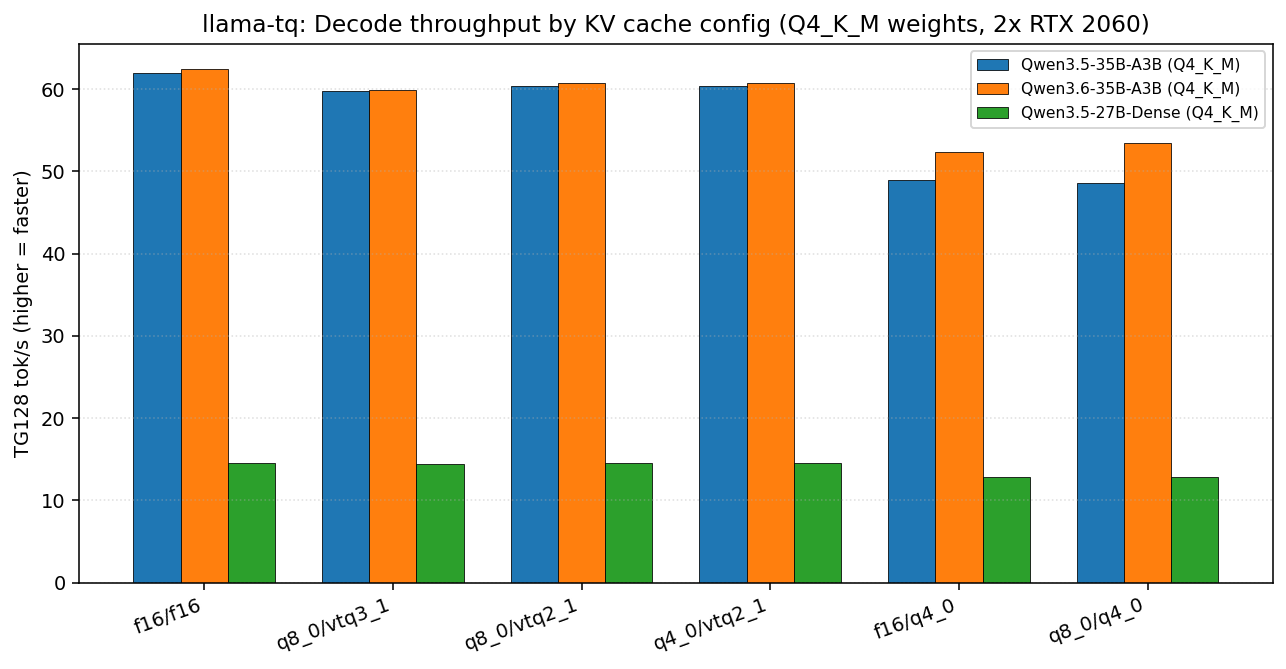
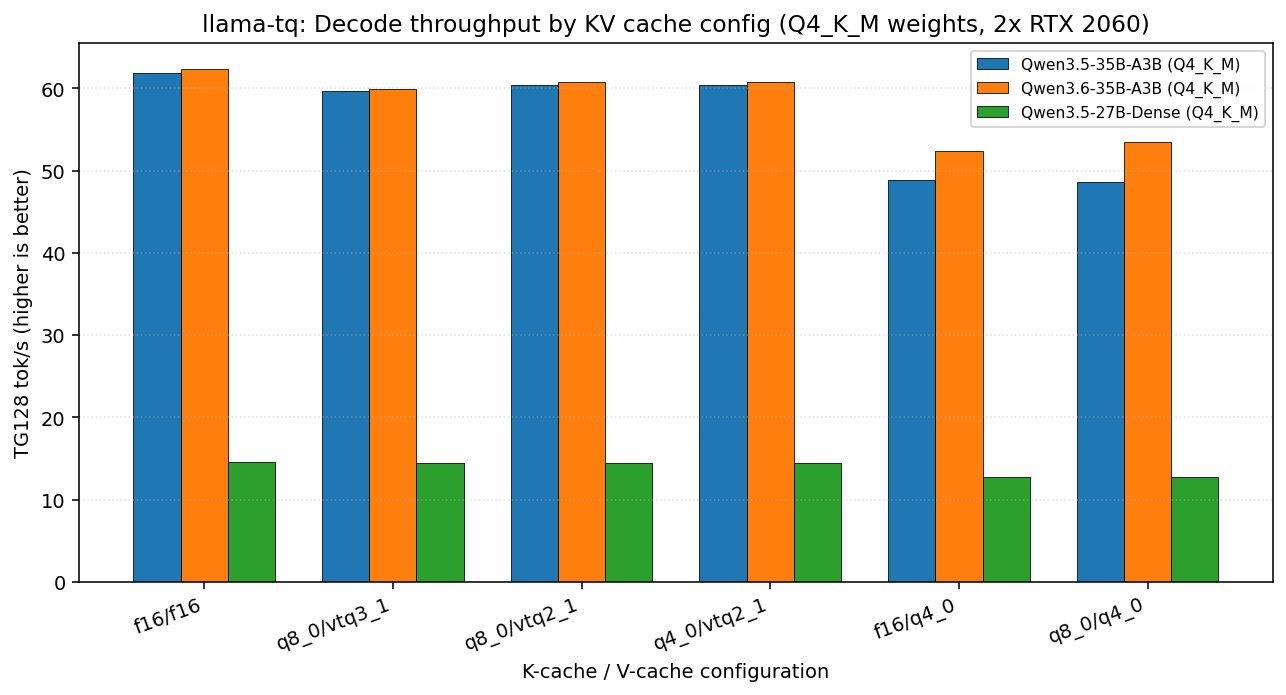
charts: split PPL chart into two panels, rework cross-project layout
- ppl_vs_bpw.png: split into compressed region (bpw ≤ 7) and f16 K region
  (bpw > 7) to stop point overlap; added green near-lossless band at <1.5%
- cross_project.png: reduced llama-tq to flagship configs only (q8_0+vtq2_1,
  q8_0+vtq3_1), used circle/square to distinguish them, star for TheTom,
  diamond for buun. Custom two-column legend, caveat moved below plot
- All axis labels now have direction indicators:
    "higher is better" for tok/s
    "lower is better" for PPL delta
    "lower means more compression" for bpw
- README: replaced em-dashes with commas/periods for plain ASCII punctuation

diff --git a/bench/plots/gen_charts.py b/bench/plots/gen_charts.py
@@ -45,55 +45,76 @@ def _savefig(name: str, fig):
 # ----------------------------------------------------------------------------
 
 def chart_ppl_vs_bpw():
-    fig, ax = plt.subplots(figsize=(10, 6))
+    # Two-panel: left = bpw ≤ 7 (compressed region where points cluster),
+    # right = bpw > 7 (f16-K territory, fewer points)
+    fig, (axL, axR) = plt.subplots(1, 2, figsize=(12, 6),
+                                   gridspec_kw={"width_ratios": [3, 1.2]},
+                                   sharey=True)
 
-    # Per-model markers
     markers = {
         "Qwen3.5-35B-A3B (IQ2_XS)":   ("o", "#1f77b4"),
         "Qwen3.6-35B-A3B (IQ2_XXS)":  ("s", "#ff7f0e"),
         "Qwen3.5-35B-A3B (Q4_K_M)":   ("^", "#2ca02c"),
         "Qwen3.6-35B-A3B (Q4_K_M)":   ("D", "#d62728"),
-        "Qwen3.5-27B-Dense (Q4_K_M)": ("v", "#9467bd"),
+        "Qwen3.5-27B Dense (Q4_K_M)": ("v", "#9467bd"),
     }
 
-    have_ppl = df.dropna(subset=["ppl_delta_pct"])
+    have_ppl = df.dropna(subset=["ppl_delta_pct"]).copy()
+    # Rename 'Qwen3.5-27B-Dense' → 'Qwen3.5-27B Dense' for consistency
+    have_ppl["model_label"] = have_ppl["model_label"].str.replace(
+        "Qwen3.5-27B-Dense", "Qwen3.5-27B Dense"
+    )
+
     for label, (marker, color) in markers.items():
         sub = have_ppl[have_ppl["model_label"] == label]
         if sub.empty:
             continue
-        ax.scatter(
-            sub["avg_bpw"], sub["ppl_delta_pct"],
-            marker=marker, color=color, s=60, alpha=0.85,
-            label=label, edgecolors="black", linewidth=0.4,
-        )
+        for ax in (axL, axR):
+            ax.scatter(
+                sub["avg_bpw"], sub["ppl_delta_pct"],
+                marker=marker, color=color, s=85, alpha=0.9,
+                label=label if ax is axL else None,
+                edgecolors="black", linewidth=0.5, zorder=3,
+            )
 
-    # Annotate our recommended configs
-    highlights = [
-        ("q8_0/vtq3_1", "q8_0+vtq3_1"),
-        ("q8_0/vtq2_1", "q8_0+vtq2_1"),
-    ]
-    for cfg, text in highlights:
-        sub = have_ppl[have_ppl["config"] == cfg]
-        if sub.empty:
-            continue
-        # pick the median row for annotation
-        row = sub.iloc[len(sub) // 2]
-        ax.annotate(
-            text,
-            xy=(row["avg_bpw"], row["ppl_delta_pct"]),
-            xytext=(10, 8), textcoords="offset points",
-            fontsize=8, color="#444",
-            arrowprops=dict(arrowstyle="-", color="#aaa", lw=0.5),
-        )
+    # Shade "near-lossless" band on left panel
+    axL.axhspan(-0.5, 1.5, color="#e6f4ea", alpha=0.6, zorder=1,
+                label="_nolegend_")
+    axL.text(6.9, 0.5, "near-lossless (<1.5%)", fontsize=7, color="#2ca02c",
+             ha="right", style="italic")
 
-    ax.axhline(0, color="#888", lw=0.6, ls="--")
-    ax.set_xlabel("Average KV-cache bpw (lower = more compressed)")
-    ax.set_ylabel("PPL delta vs f16 (%)")
-    ax.yaxis.set_major_formatter(mtick.PercentFormatter(decimals=1))
-    ax.set_title("llama-tq: PPL vs KV compression across 5 model/quant pairs")
-    ax.grid(True, ls=":", alpha=0.4)
-    ax.legend(loc="upper right", fontsize=8, framealpha=0.9)
-    ax.set_xlim(2, 17)
+    # Annotate typical configs (one per cluster, placed outside the point)
+    typical = {
+        3.5:  ("q4_0 + vtq2_1", "3.5 bpw", (0.3, 0.8)),
+        5.5:  ("q8_0 + vtq2_1", "5.5 bpw", (0.3, 0.6)),
+        6.25: ("q8_0 + vtq3_1", "6.25 bpw", (0.3, -1.2)),
+        4.5:  ("q4_0 / q4_0", "4.5 bpw", (0.3, -1.0)),
+    }
+    for bpw, (text, _, offset) in typical.items():
+        axL.annotate(text, xy=(bpw, 10), xytext=(bpw + offset[0], 10.8),
+                     fontsize=7.5, color="#333", ha="left",
+                     arrowprops=dict(arrowstyle="-", color="#bbb", lw=0.5))
+
+    for ax in (axL, axR):
+        ax.axhline(0, color="#666", lw=0.7, ls="--", zorder=2)
+        ax.set_xlabel("Average KV-cache bpw (lower means more compression)")
+        ax.yaxis.set_major_formatter(mtick.PercentFormatter(decimals=1))
+        ax.grid(True, ls=":", alpha=0.4, zorder=0)
+
+    axL.set_ylabel("PPL delta vs f16 (lower is better)")
+    axL.set_xlim(2.8, 7)
+    axR.set_xlim(7.5, 16.8)
+    axL.set_title("Compressed region (K or V below 8 bpw)")
+    axR.set_title("f16 K region")
+
+    # Hide duplicated y-axis on right panel
+    axR.tick_params(labelleft=False)
+
+    fig.suptitle("llama-tq: PPL delta vs KV-cache bpw (5 model/quant pairs, 2x RTX 2060)",
+                 fontsize=12, y=0.98)
+    axL.legend(loc="upper right", fontsize=8, framealpha=0.95,
+               title="Model / weight quant")
+    fig.tight_layout()
 
     _savefig("ppl_vs_bpw.png", fig)
 
@@ -122,7 +143,8 @@ def chart_decode_throughput():
 
     ax.set_xticks([xi + width for xi in x])
     ax.set_xticklabels(configs, rotation=20, ha="right")
-    ax.set_ylabel("TG128 tok/s (higher = faster)")
+    ax.set_ylabel("TG128 tok/s (higher is better)")
+    ax.set_xlabel("K-cache / V-cache configuration")
     ax.set_title("llama-tq: Decode throughput by KV cache config (Q4_K_M weights, 2x RTX 2060)")
     ax.legend(fontsize=8, loc="upper right")
     ax.grid(True, axis="y", ls=":", alpha=0.4)
@@ -135,69 +157,118 @@ def chart_decode_throughput():
 # ----------------------------------------------------------------------------
 
 def chart_cross_project():
-    fig, ax = plt.subplots(figsize=(10, 6))
-
-    # llama-tq points (just the non-broken configs on Qwen3.5-35B Q4_K_M for
-    # apples-to-apples with TheTom)
-    have_ppl = df.dropna(subset=["ppl_delta_pct"])
-    our_q4km = have_ppl[have_ppl["model_quant"] == "Q4_K_M"]
-    # only show valid VTQ / standard-type configs, not KTQ+VTQ broken combos
-    our_q4km = our_q4km[~our_q4km["k_cache"].str.startswith("ktq")]
-
-    ax.scatter(
-        our_q4km["avg_bpw"], our_q4km["ppl_delta_pct"],
-        marker="o", color="#1f77b4", s=70, alpha=0.85,
-        label="llama-tq (2x RTX 2060, Q4_K_M)", edgecolors="black", linewidth=0.4,
+    # Show only the representative config per model-quant for llama-tq so the
+    # scatter isn't dominated by near-duplicate points.
+    have_ppl = df.dropna(subset=["ppl_delta_pct"]).copy()
+    have_ppl["model_label"] = have_ppl["model_label"].str.replace(
+        "Qwen3.5-27B-Dense", "Qwen3.5-27B Dense"
     )
 
-    # TheTom points
+    # Use the two flagship configs only (vtq3_1 and vtq2_1 with q8_0 K)
+    flagship = have_ppl[
+        have_ppl["config"].isin(["q8_0/vtq3_1", "q8_0/vtq2_1"])
+    ].copy()
+
+    fig, ax = plt.subplots(figsize=(11, 6.5))
+
+    # Per-model colors for llama-tq
+    model_colors = {
+        "Qwen3.5-35B-A3B (IQ2_XS)":   "#1f77b4",
+        "Qwen3.6-35B-A3B (IQ2_XXS)":  "#ff7f0e",
+        "Qwen3.5-35B-A3B (Q4_K_M)":   "#2ca02c",
+        "Qwen3.6-35B-A3B (Q4_K_M)":   "#d62728",
+        "Qwen3.5-27B Dense (Q4_K_M)": "#9467bd",
+    }
+
+    # Plot llama-tq points, one marker per model, split by config
+    for label, color in model_colors.items():
+        sub = flagship[flagship["model_label"] == label]
+        if sub.empty:
+            continue
+        # vtq3_1 = circle, vtq2_1 = square (so reader can distinguish configs)
+        v3 = sub[sub["config"] == "q8_0/vtq3_1"]
+        v2 = sub[sub["config"] == "q8_0/vtq2_1"]
+        ax.scatter(v3["avg_bpw"], v3["ppl_delta_pct"],
+                   marker="o", color=color, s=80, alpha=0.9,
+                   edgecolors="black", linewidth=0.5, zorder=4)
+        ax.scatter(v2["avg_bpw"], v2["ppl_delta_pct"],
+                   marker="s", color=color, s=80, alpha=0.9,
+                   edgecolors="black", linewidth=0.5, zorder=4)
+
+    # TheTom (star)
     tt = other[other["project"] == "TheTom"]
-    ax.scatter(
-        tt["avg_bpw"], tt["ppl_delta_pct"],
-        marker="s", color="#ff7f0e", s=70, alpha=0.85,
-        label="TheTom turboquant_plus (M5 Max, Q4_K_M)", edgecolors="black", linewidth=0.4,
-    )
-
-    # buun points
-    bb = other[other["project"] == "buun"]
-    ax.scatter(
-        bb["avg_bpw"], bb["ppl_delta_pct"],
-        marker="D", color="#2ca02c", s=70, alpha=0.85,
-        label="buun TCQ (RTX 3090, Q6_K)", edgecolors="black", linewidth=0.4,
-    )
-
-    # Annotate specific points
+    ax.scatter(tt["avg_bpw"], tt["ppl_delta_pct"],
+               marker="*", color="#ff7f0e", s=240, alpha=0.9,
+               edgecolors="black", linewidth=0.7, zorder=5,
+               label="TheTom (M5 Max, Q4_K_M MoE)")
     for _, row in tt.iterrows():
         ax.annotate(
             row["config"],
             xy=(row["avg_bpw"], row["ppl_delta_pct"]),
-            xytext=(6, 4), textcoords="offset points",
-            fontsize=7, color="#cc5500",
+            xytext=(9, 6), textcoords="offset points",
+            fontsize=8, color="#cc5500", fontweight="bold",
         )
+
+    # buun (diamond)
+    bb = other[other["project"] == "buun"]
+    ax.scatter(bb["avg_bpw"], bb["ppl_delta_pct"],
+               marker="D", color="#2ca02c", s=160, alpha=0.9,
+               edgecolors="black", linewidth=0.7, zorder=5,
+               label="buun TCQ (RTX 3090, Q6_K)")
     for _, row in bb.iterrows():
         ax.annotate(
             row["config"],
             xy=(row["avg_bpw"], row["ppl_delta_pct"]),
-            xytext=(6, -8), textcoords="offset points",
-            fontsize=7, color="#2ca02c",
+            xytext=(9, -12), textcoords="offset points",
+            fontsize=8, color="#206020", fontweight="bold",
         )
 
-    ax.axhline(0, color="#888", lw=0.6, ls="--")
-    ax.set_xlabel("Average KV-cache bpw")
-    ax.set_ylabel("PPL delta vs f16 (%)")
-    ax.yaxis.set_major_formatter(mtick.PercentFormatter(decimals=1))
-    ax.set_title("Cross-project comparison: PPL vs KV bpw (different HW/models, indicative only)")
-    ax.grid(True, ls=":", alpha=0.4)
-    ax.legend(loc="upper right", fontsize=8, framealpha=0.9)
+    # Custom legend: model colors + project markers (handmade so it's readable)
+    from matplotlib.lines import Line2D
+    model_handles = [
+        Line2D([0], [0], marker="o", color="w", markerfacecolor=c,
+               markeredgecolor="black", markersize=9, label=m)
+        for m, c in model_colors.items()
+    ]
+    config_handles = [
+        Line2D([0], [0], marker="o", color="w", markerfacecolor="#888",
+               markeredgecolor="black", markersize=9,
+               label="llama-tq: q8_0 + vtq3_1"),
+        Line2D([0], [0], marker="s", color="w", markerfacecolor="#888",
+               markeredgecolor="black", markersize=9,
+               label="llama-tq: q8_0 + vtq2_1"),
+        Line2D([0], [0], marker="*", color="w", markerfacecolor="#ff7f0e",
+               markeredgecolor="black", markersize=14,
+               label="TheTom (M5 Max, Q4_K_M MoE)"),
+        Line2D([0], [0], marker="D", color="w", markerfacecolor="#2ca02c",
+               markeredgecolor="black", markersize=10,
+               label="buun TCQ (RTX 3090, Q6_K)"),
+    ]
+    leg_models = ax.legend(handles=model_handles, loc="upper left",
+                           fontsize=8, title="llama-tq: model",
+                           title_fontsize=8, framealpha=0.95)
+    ax.add_artist(leg_models)
+    ax.legend(handles=config_handles, loc="lower left",
+              fontsize=8, title="Config / project", title_fontsize=8,
+              framealpha=0.95)
 
-    # Caveat text
-    ax.text(
-        0.02, 0.02,
-        "Note: different hardware, model variants, and PPL methodologies.\n"
-        "buun uses KL-divergence on Q6_K; TheTom uses wikitext-2 on Q4_K_M MoE.\n"
+    ax.axhline(0, color="#666", lw=0.7, ls="--", zorder=2)
+    ax.axhspan(-0.5, 1.5, color="#e6f4ea", alpha=0.4, zorder=1)
+
+    ax.set_xlabel("Average KV-cache bpw (lower means more compression)")
+    ax.set_ylabel("PPL delta vs f16 (lower is better)")
+    ax.yaxis.set_major_formatter(mtick.PercentFormatter(decimals=1))
+    ax.set_title("Cross-project PPL comparison (different HW/models, indicative only)")
+    ax.grid(True, ls=":", alpha=0.4, zorder=0)
+    ax.set_xlim(2, 7)
+
+    # Caveat below the chart, outside the plotting area
+    fig.text(
+        0.5, -0.02,
+        "Note: different hardware, model variants, and PPL methodologies. "
+        "buun uses KL divergence on Q6_K; TheTom uses wikitext-2 on Q4_K_M MoE. "
         "Direct comparison is approximate.",
-        transform=ax.transAxes, fontsize=7, color="#666",
-        verticalalignment="bottom",
+        ha="center", fontsize=8, color="#555", style="italic",
     )
 
     _savefig("cross_project.png", fig)
@@ -234,7 +305,7 @@ def chart_vtq2_variance():
 
     ax.set_yticks(list(y2))
     ax.set_yticklabels(vtq2["model_label"])
-    ax.set_xlabel("PPL delta vs f16 (%)")
+    ax.set_xlabel("PPL delta vs f16 (lower is better)")
     ax.xaxis.set_major_formatter(mtick.PercentFormatter(decimals=1))
     ax.set_title("llama-tq: PPL delta varies by model architecture and weight quant")
     ax.legend(loc="lower right", fontsize=8)

diff --git a/README.md b/README.md
@@ -135,7 +135,7 @@ The 27B Dense model is slower in absolute tok/s (no MoE sparsity: all 27B parame
 | q8_0 | vtq2_1 | 5.5 | **6.361** | **+6.6%** |
 | f16 | vtq2_1 | 9.3 | 6.378 | +6.9% |
 
-On IQ2_XS/IQ2_XXS weights, `vtq3_1` sits at +1.05–1.8% PPL and `q8_0 + vtq2_1` at +6.6–7.2%. The Q4_K_M results below show larger deltas — see the [Observation](#perplexity-wikitext-2-512-ctx-3-chunks) block after the Q4_K_M tables.
+On IQ2_XS/IQ2_XXS weights, `vtq3_1` sits at +1.05–1.8% PPL and `q8_0 + vtq2_1` at +6.6–7.2%. The Q4_K_M results below show larger deltas. See the [Observation](#perplexity-wikitext-2-512-ctx-3-chunks) block after the Q4_K_M tables.
 
 #### Qwen3.5-35B-A3B (Q4_K_M)
 
@@ -179,7 +179,7 @@ On IQ2_XS/IQ2_XXS weights, `vtq3_1` sits at +1.05–1.8% PPL and `q8_0 + vtq2_1`
 - Qwen3.6-35B-A3B MoE (Q4_K_M): +8.5%
 - Qwen3.5-35B-A3B MoE (Q4_K_M): +10.0%
 
-The Dense model shows the smallest delta. The two MoE models on Q4_K_M weights show larger deltas than the same architecture on IQ2_XS weights, which I did not anticipate — higher-precision weights amplifying KV-quant PPL is counterintuitive. One hypothesis is that MoE sparse expert routing (8/128 active) interacts with V-quant noise differently per-token, but I have not confirmed this. The measurement is on 3 wikitext-2 chunks at 512 ctx, so the chunk-to-chunk variance is non-trivial; I plan to rerun at 64+ chunks before drawing conclusions. `vtq3_1` stays within +0.6% to +2.5% across all four tests.
+The Dense model shows the smallest delta. The two MoE models on Q4_K_M weights show larger deltas than the same architecture on IQ2_XS weights, which I did not anticipate. Higher-precision weights amplifying KV-quant PPL is counterintuitive. One hypothesis is that MoE sparse expert routing (8/128 active) interacts with V-quant noise differently per-token, but I have not confirmed this. The measurement is on 3 wikitext-2 chunks at 512 ctx, so the chunk-to-chunk variance is non-trivial; I plan to rerun at 64+ chunks before drawing conclusions. `vtq3_1` stays within +0.6% to +2.5% across all four tests.
 
 ![vtq2_1 vs vtq3_1 by model](docs/img/vtq2_variance.png)
 
@@ -195,7 +195,7 @@ The Dense model shows the smallest delta. The two MoE models on Q4_K_M weights s
 
 ### Comparison with Other Approaches
 
-PPL delta vs f16 baseline (lower is better). Different hardware, models, and metrics — **relative deltas only are indicative**.
+PPL delta vs f16 baseline (lower is better). Different hardware, models, and metrics. Relative deltas only are indicative.
 
 ![Cross-project comparison](docs/img/cross_project.png)
 
@@ -218,11 +218,11 @@ PPL delta vs f16 baseline (lower is better). Different hardware, models, and met
 
 \*TheTom turbo2 decode varies: -22% on MoE short context, but +33.9% on M1 Max with turbo4.
 \*\*buun turbo3_tcq: PPL 5.802 vs f16 5.805 (Qwen3.5-27B Q6_K, 2K ctx). Uses KL-divergence metric, not directly comparable to wikitext-2 PPL.
-\*\*\*buun turbo2_tcq: KLD 0.101 at 2K context — different metric.
+\*\*\*buun turbo2_tcq: KLD 0.101 at 2K context, different metric.
 
 **Note:** These results use different models, hardware, quantizations, and metrics. Direct comparison is approximate at best.
 
-**Observations (caveats above apply — different hardware/weights/metrics):**
+**Observations (caveats above apply, different hardware/weights/metrics):**
 - TheTom turbo3/turbo4 report lower PPL delta at 3-4 bit on MoE (+1.06% / +0.23%) than this fork's `vtq3_1` on the same Q4_K_M MoE (+1.0–2.5%).
 - buun's TCQ (Viterbi-encoded trellis) reports the lowest 3-bit PPL delta in the table, measured on Q6_K weights at 2K context with KLD rather than wikitext-2 PPL.
 - llama-tq's `vtq3_1` on the Dense Qwen3.5-27B Q4_K_M shows +1.1% PPL at −1% TG128.
@@ -253,7 +253,7 @@ Per-block Randomized Hadamard Transform (FWHT + per-block sign flip) + Lloyd-Max
 <details>
 <summary><strong>VTQ (V-Cache TurboQuant)</strong></summary>
 
-A fixed D·H·D rotation (sign-diagonal · FWHT · sign-diagonal) is applied once at the graph level, before values enter the cache. The FA V-dequant reduces to `codebook[idx] * scale` and is `__forceinline__`. Codebooks at 1–2 index bits are fit with Lloyd-Max to a Laplace(0, 1) prior — which matches the empirical marginal distribution of rotated V entries in my measurements.
+A fixed D·H·D rotation (sign-diagonal · FWHT · sign-diagonal) is applied once at the graph level, before values enter the cache. The FA V-dequant reduces to `codebook[idx] * scale` and is `__forceinline__`. Codebooks at 1–2 index bits are fit with Lloyd-Max to a Laplace(0, 1) prior, which matches the empirical marginal distribution of rotated V entries in my measurements.
 
 | Type | Index bits | bpw | Block | Notes |
 |------|:---:|:---:|:---:|---|
@@ -270,7 +270,7 @@ A fixed D·H·D rotation (sign-diagonal · FWHT · sign-diagonal) is applied onc
 
 ### The Problem
 
-A TurboQuant-style per-block V-dequant requires a 32-element FWHT butterfly inside the FA kernel's inner loop. In this CUDA implementation on CC 7.5, this pushed the kernel over the 255-register/thread limit on `vec_dot_KQV`, producing register spills to local memory and — in one observed case — corruption of the FA accumulator for some head/tile combinations. I did not fully characterize the corruption; the split-path design was chosen to sidestep it rather than fix it in place.
+A TurboQuant-style per-block V-dequant requires a 32-element FWHT butterfly inside the FA kernel's inner loop. In this CUDA implementation on CC 7.5, this pushed the kernel over the 255-register/thread limit on `vec_dot_KQV`, producing register spills to local memory, and in one observed case, corruption of the FA accumulator for some head/tile combinations. I did not fully characterize the corruption; the split-path design was chosen to sidestep it rather than fix it in place.
 
 ### The Solution: Split K and V
 
@@ -284,7 +284,7 @@ KTQ K-path (FA inner loop):        VTQ V-path (FA inner loop):
 - **KTQ** keeps per-block RHT on K. The FA kernel applies FWHT to Q once per tile and computes the Q·K dot product entirely in the Hadamard domain, so K is never explicitly dequantized.
 - **VTQ** moves the randomization out of the FA inner loop: a fixed D·H·D (sign-diagonal · FWHT · sign-diagonal) rotation is applied once at the graph level, before the cache write. Per-entry dequant is then just `codebook[idx] * scale`.
 
-The D·H·D rotation is *not* a fully random orthogonal rotation — it uses deterministic sign diagonals — but the Hadamard mixing decorrelates the D-dimensional value vector enough that its coordinate marginals match a Laplace(0, 1) prior closely in my measurements. That property, not strict i.i.d.-ness, is what the 2-bit Lloyd-Max codebook relies on.
+The D·H·D rotation is *not* a fully random orthogonal rotation (it uses deterministic sign diagonals), but the Hadamard mixing decorrelates the D-dimensional value vector enough that its coordinate marginals match a Laplace(0, 1) prior closely in my measurements. That property, not strict i.i.d.-ness, is what the 2-bit Lloyd-Max codebook relies on.
 
 ---
 
